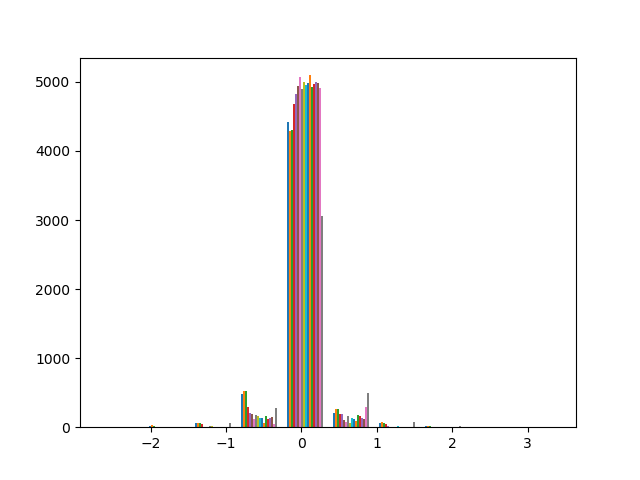
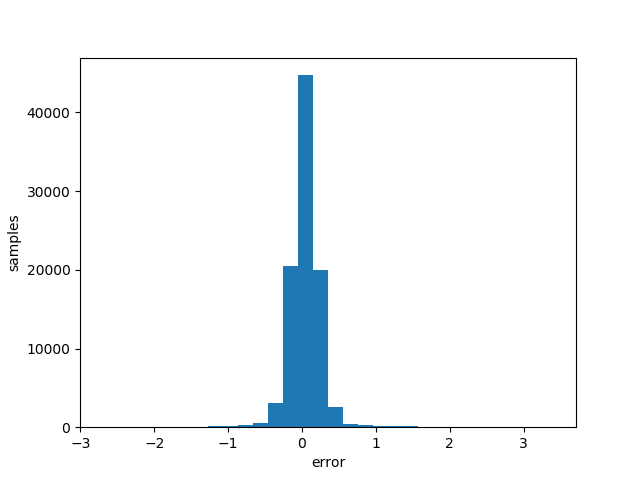
added requirements.txt

diff --git a/error_histogram.py b/error_histogram.py
@@ -27,13 +27,30 @@ full_loader = DataLoader(test, batch_size=batch_size, drop_last=False)
 
 
 error = []
+ground_truth = []
 batch = tqdm(full_loader, total=len(dataset) // batch_size)
 for signal, target_label in batch:
     signal, target_label = signal.to(device), target_label.to(device)
     estimate = model(signal.unsqueeze(1))
+    ground_truth.append(target_label.detach())
     err = estimate - target_label
-    error.append(err.data.cpu().numpy())
+    error.append(err.detach())
 
-plt.hist(error)
+
+error = torch.cat(error)
+ground_truth = torch.cat(ground_truth)
+
+plt.hist(error.cpu().numpy(), bins=30)
+plt.xlabel('error')
+plt.ylabel('samples')
+plt.show()
+
+
+x = ground_truth.cpu().numpy()
+y = error.data.cpu().numpy()
+
+plt.scatter(x, y)
+plt.xlabel('thickness')
+plt.ylabel('error')
 plt.show()
 
